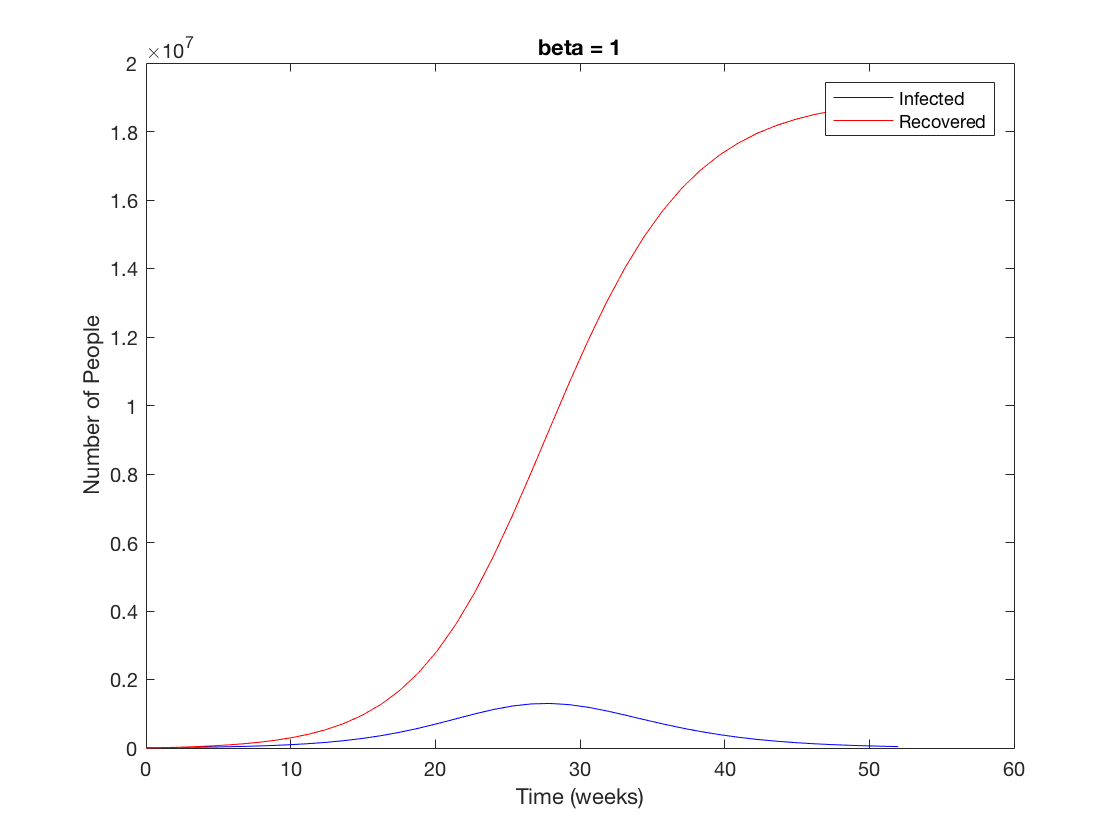
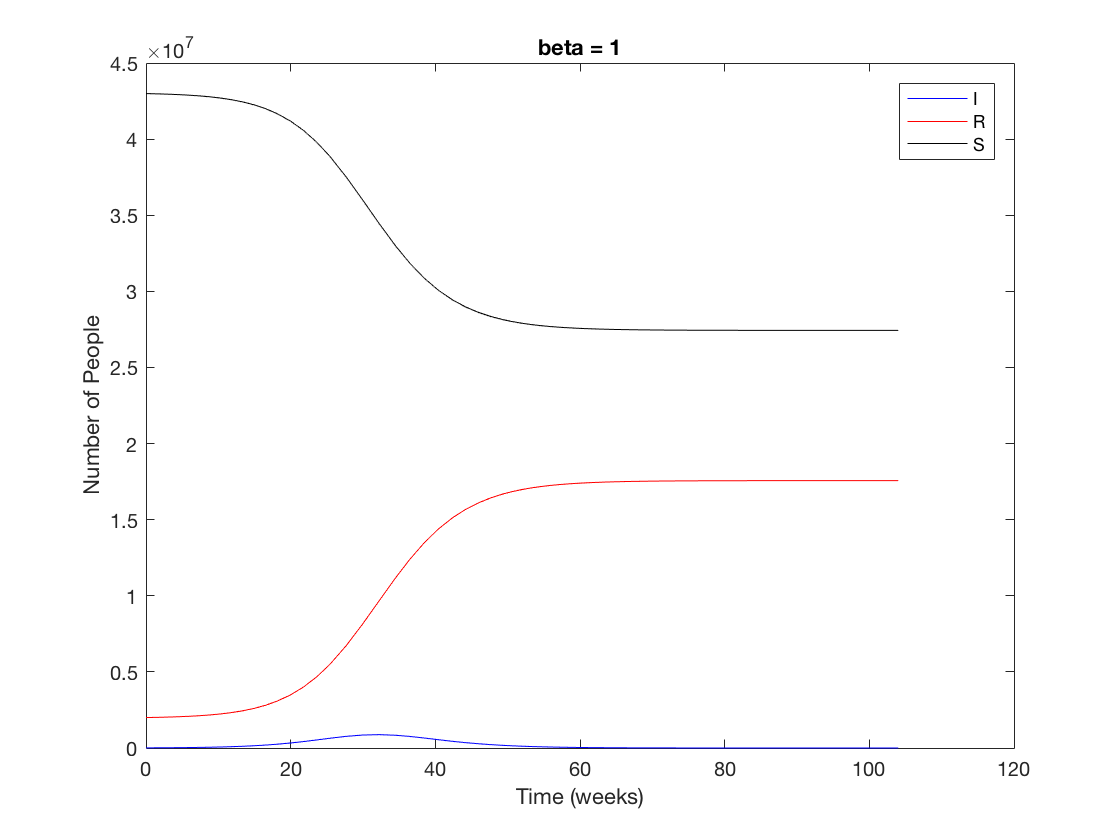
fixed some plots of first model

diff --git a/scripts/MeaslesFirstRun.m b/scripts/MeaslesFirstRun.m
@@ -1,8 +1,8 @@
 % parameters
-beta = 2;
-v = 5;
-% maxTime corresponds to 936 weeks/18 years -> 1948 to 1966
-maxTime = 52;
+beta = 5;
+v = 0.77;
+% maxTime corresponds to 104 weeks -> 2 years
+maxTime = 104;
 %tspan = linspace(0,1,maxTime);
 tspan = [0 maxTime];
 
@@ -11,7 +11,7 @@ N = 45000000;
 % Number of infected people at the start
 I0 = 10000;
 % Number of recovered at the start
-R0 = 0;
+R0 = 2000000;
 % Number of susceptible at the start (total pop - infected - recovered)
 S0 = N-I0-R0;
 S=S0;  
@@ -27,12 +27,12 @@ R=pop(:,3);
 %  Plots the graph
 T=t;
 plot(T,I,'-b');
-title('beta = 2')
+title('beta = 5')
 hold on;
 plot(T,R,'-r');
-%plot(T,S,'-k');
+plot(T,S,'-k');
 ylabel('Number of People');
 xlabel('Time (weeks)');
-legend('Infected','Recovered')
-%legend('Infected','Recovered','Susceptible')
+%legend('Infected','Recovered')
+legend('I','R','S')
 hold off;
